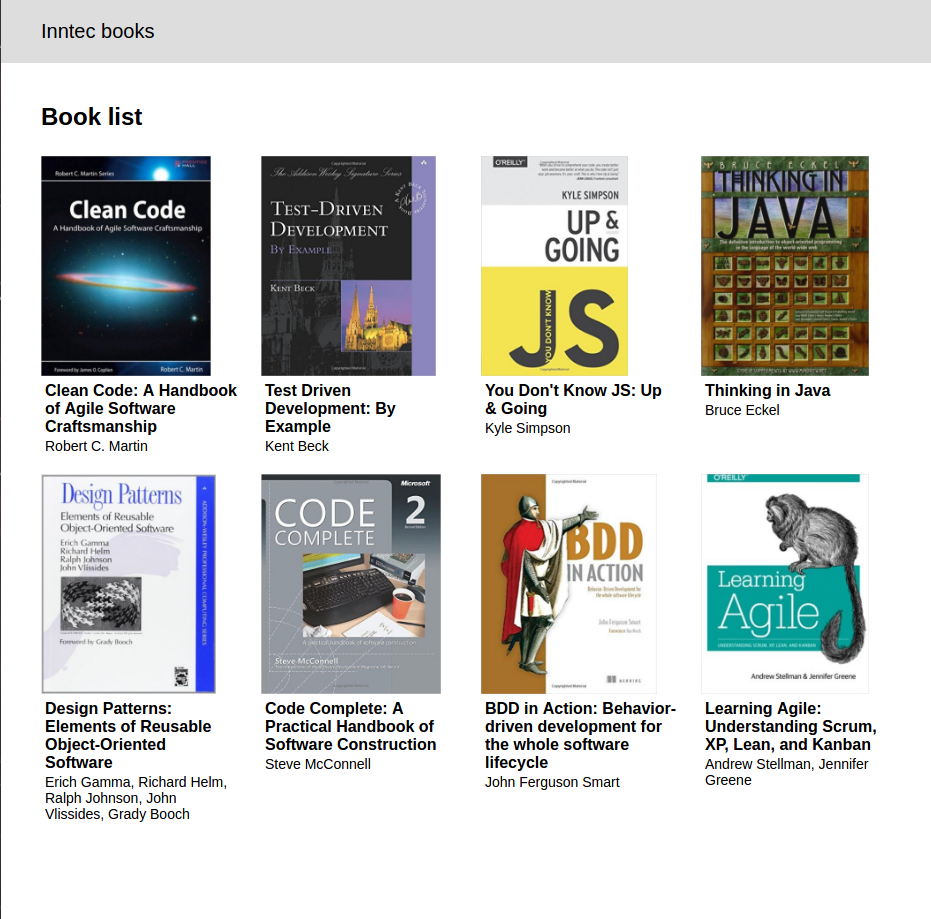
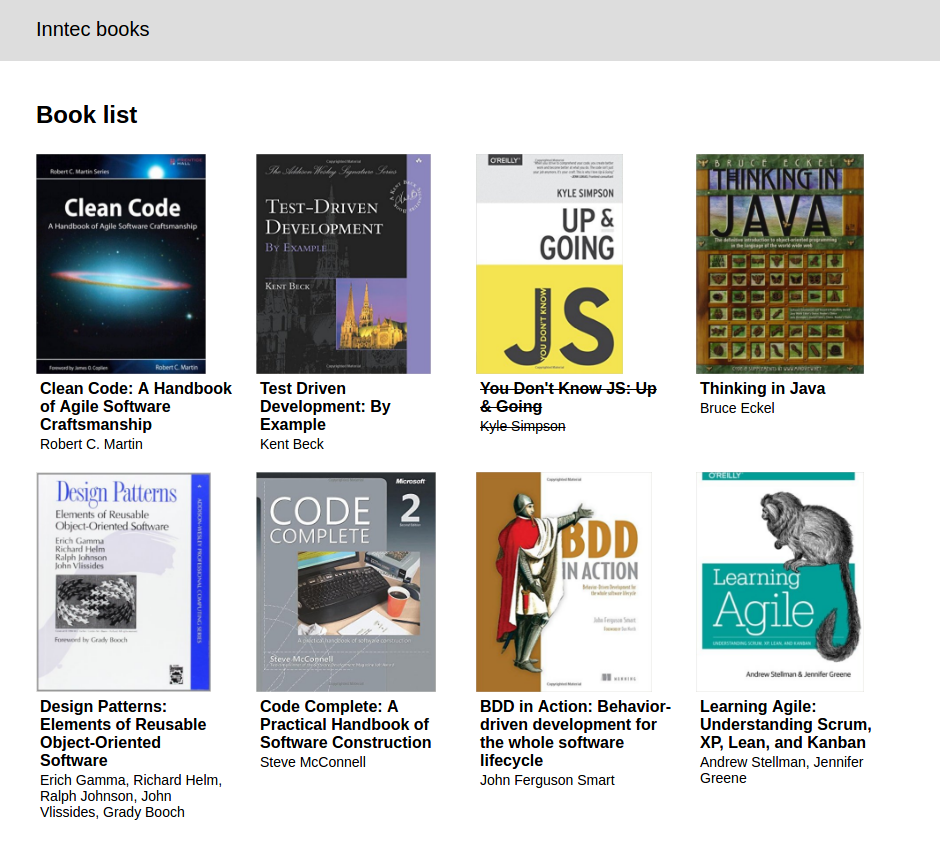
initial booking / unbooking

diff --git a/web/lesson-2-hint/src/api.js b/web/lesson-2-hint/src/api.js
@@ -3,8 +3,14 @@ import config from './config';
 
 const apiUrl = `${config.baseUrl}api`;
 
-const call = url => new Promise((resolve, reject) => {
-  fetch(`${apiUrl}/${url}`).then((response) => {
+const call = (method, url, body) => new Promise((resolve, reject) => {
+  const options = {method};
+  if (body != null) {
+    const data = new FormData();
+    data.append('json', JSON.stringify(body));
+    options.body = data;
+  }
+  fetch(`${apiUrl}/${url}`, options).then((response) => {
     response.json().then(resolve);
   }).catch(reject);
 });
@@ -12,9 +18,15 @@ const call = url => new Promise((resolve, reject) => {
 
 export default {
   getBooks() {
-    return call('books');
+    return call('get', 'books');
+  },
+  doBooking(bookId, employeeId) {
+    return call('post', 'books', {bookId, employeeId, action: 'BOOK'});
+  },
+  doUnbooking(bookId, employeeId) {
+    return call('post', 'books', {bookId, employeeId, action: 'UNBOOK'});
   },
   getEmployees() {
-    return call('employees');
+    return call('get', 'employees');
   },
 };

diff --git a/web/lesson-2-hint/src/components/Books.js b/web/lesson-2-hint/src/components/Books.js
@@ -73,7 +73,7 @@ class BookList extends React.Component {
   onBookSelect = bookId => this.props.books.forEach(book => book.id === bookId && this.setState({selectedBook: book}));
 
   render() {
-    const {books} = this.props;
+    const {books, onRefresh} = this.props;
     const {filter, selectedBook} = this.state;
     const filteredBooks = books
       .filter(item => filter.avalableOnly !== true || (filter.avalableOnly && item.borrowedBy == null))
@@ -81,7 +81,7 @@ class BookList extends React.Component {
     return (
       <div>
         <div className='books__order'>
-          {selectedBook && <BookBooking book={selectedBook} />}
+          {selectedBook && <BookBooking book={selectedBook} onRefresh={onRefresh} />}
         </div>
         <div className='books__header'>
           <h2>Book list</h2>
@@ -107,6 +107,7 @@ BookList.propTypes = {
     title: React.PropTypes.string.isRequired,
     author: React.PropTypes.string.isRequired,
   })),
+  onRefresh: React.PropTypes.func.isRequired,
 };
 
 BookList.defaultProps = {

diff --git a/web/lesson-1-hint/src/components/Books.js b/web/lesson-1-hint/src/components/Books.js
@@ -1,9 +1,11 @@
 import React from 'react';
+
+import classNames from 'classnames';
 import './Books.css';
 
 
-const Book = ({cover, title, author}) =>
-  <div className='book'>
+const Book = ({isBorrowed, cover, title, author}) =>
+  <div className={classNames('book', isBorrowed && 'book--borrowed')}>
     <div className='book__cover'>
       <img src={process.env.PUBLIC_URL + cover} alt={title} />
     </div>
@@ -12,6 +14,7 @@ const Book = ({cover, title, author}) =>
   </div>;
 
 Book.propTypes = {
+  isBorrowed: React.PropTypes.bool.isRequired,
   cover: React.PropTypes.string.isRequired,
   title: React.PropTypes.string.isRequired,
   author: React.PropTypes.string.isRequired,
@@ -22,7 +25,7 @@ const BookList = ({books}) =>
     <h2 className='books__header'>Book list</h2>
     <div className='books__list'>
       {books.map(book =>
-        <Book key={book.id} {...book} />,
+        <Book key={book.id} {...book} isBorrowed={book.borrowedBy != null} />,
       )}
     </div>
   </div>;

diff --git a/web/lesson-2-hint/src/components/BookBooking.js b/web/lesson-2-hint/src/components/BookBooking.js
@@ -20,14 +20,14 @@ class BookBooking extends React.Component {
   onEmplyeeSelect = ({value}) => this.setState({employeeId: value});
 
   onSubmit = (e) => {
-    const {book: {id, borrowedBy}} = this.props;
-    const {employeeId} = this.state;
     e.preventDefault();
+    const {book: {id, borrowedBy}, onRefresh} = this.props;
+    const {employeeId} = this.state;
     if (id && (employeeId || borrowedBy)) {
       if (employeeId) {
-        api.doBooking({bookId: id, employeeId}).then(() => console.log('Booked!'));
+        api.doBooking(id, employeeId).then(onRefresh);
       } else {
-        api.doUnbooking({bookId: id, employeeId}).then(() => console.log('Un-Booked!'));
+        api.doUnbooking(id, borrowedBy).then(onRefresh);
       }
     }
   }
@@ -65,6 +65,7 @@ BookBooking.propTypes = {
     title: React.PropTypes.string.isRequired,
     author: React.PropTypes.string.isRequired,
   }).isRequired,
+  onRefresh: React.PropTypes.func.isRequired,
 };
 
 export default BookBooking;

diff --git a/web/lesson-2-hint/src/components/App.js b/web/lesson-2-hint/src/components/App.js
@@ -22,13 +22,15 @@ class App extends React.Component {
     api.getBooks().then(response => this.setState({books: response}));
   }
 
+  onRefresh = () => api.getBooks().then(response => this.setState({books: response}));
+
   render() {
     const {books} = this.state;
     return (
       <div className='app'>
         <Header />
         <div className='app-content'>
-          <Books books={books} />
+          <Books books={books} onRefresh={this.onRefresh} />
         </div>
       </div>);
   }

diff --git a/api/server.js b/api/server.js
@@ -62,6 +62,16 @@ server.register([{
   });
 
   server.route({
+    method: 'POST',
+    path: '/api/books',
+    handler(request, reply) {
+      const data = request.payload.json;
+      console.log(data);
+      return reply({});
+    },
+  });
+
+  server.route({
     method: 'GET',
     path: '/api/employees',
     handler(request, reply) {

diff --git a/web/lesson-1-hint/src/book.fixture.js b/web/lesson-1-hint/src/book.fixture.js
@@ -13,6 +13,7 @@ const books = [{
   title: 'You Don\'t Know JS: Up & Going',
   author: 'Kyle Simpson',
   cover: 'img/ydkjs1.jpg',
+  borrowedBy: 1,
 }, {
   id: 4,
   title: 'Thinking in Java',

diff --git a/web/lesson-1/src/book.fixture.js b/web/lesson-1/src/book.fixture.js
@@ -13,6 +13,7 @@ const books = [{
   title: 'You Don\'t Know JS: Up & Going',
   author: 'Kyle Simpson',
   cover: 'img/ydkjs1.jpg',
+  borrowedBy: 1,
 }, {
   id: 4,
   title: 'Thinking in Java',

diff --git a/web/lesson-1-hint/src/components/Books.css b/web/lesson-1-hint/src/components/Books.css
@@ -12,6 +12,10 @@
   width: 200px;
 }
 
+.book--borrowed {
+  text-decoration: line-through;
+}
+
 .book__cover {
   height: 220px;
   margin-bottom: 4px;
